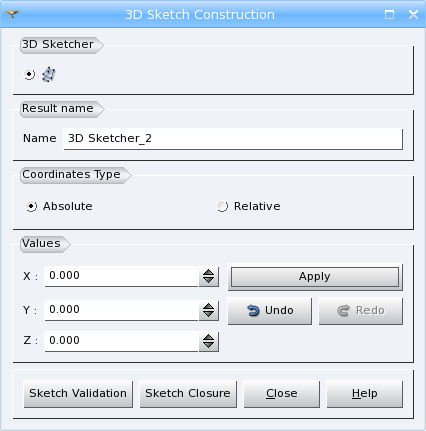
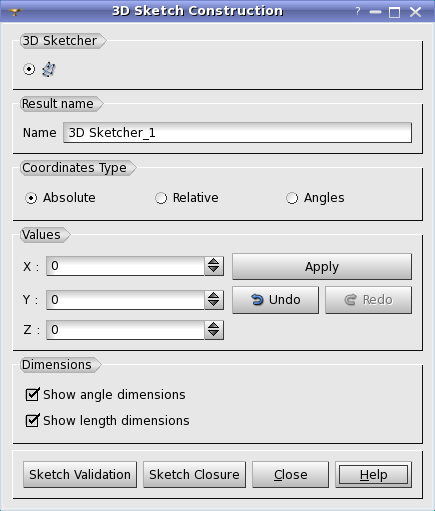
Mantis issue 0021392: EDF 1631 GEOM: Dump study of sketcher 3D with relatives coordinates.

diff --git a/src/GEOMGUI/GEOM_msg_en.ts b/src/GEOMGUI/GEOM_msg_en.ts
@@ -1843,6 +1843,10 @@ Please, select face, shell or solid and try again</translation>
         <translation>Coordinates Type</translation>
     </message>
     <message>
+        <source>GEOM_CONTROLS</source>
+        <translation>Dimensions</translation>
+    </message>
+    <message>
         <source>GEOM_SOLID</source>
         <translation>Solid</translation>
     </message>

diff --git a/src/GEOM_SWIG/gsketcher.py b/src/GEOM_SWIG/gsketcher.py
@@ -1,0 +1,182 @@
+#  -*- coding: iso-8859-1 -*-
+# Copyright (C) 2007-2012  CEA/DEN, EDF R&D, OPEN CASCADE
+#
+# This library is free software; you can redistribute it and/or
+# modify it under the terms of the GNU Lesser General Public
+# License as published by the Free Software Foundation; either
+# version 2.1 of the License.
+#
+# This library is distributed in the hope that it will be useful,
+# but WITHOUT ANY WARRANTY; without even the implied warranty of
+# MERCHANTABILITY or FITNESS FOR A PARTICULAR PURPOSE.  See the GNU
+# Lesser General Public License for more details.
+#
+# You should have received a copy of the GNU Lesser General Public
+# License along with this library; if not, write to the Free Software
+# Foundation, Inc., 59 Temple Place, Suite 330, Boston, MA  02111-1307 USA
+#
+# See http://www.salome-platform.org/ or email : webmaster.salome@opencascade.com
+#
+#  File   : gsketcher.py
+#  Author : Julia DOROVSKIKH, Open CASCADE S.A.S.
+#  Module : GEOM_SWIG
+
+"""
+    \namespace geompy
+    \brief 3D Sketcher interface
+"""
+
+# This method is used by 3D Sketcher functionality
+def printVar (var):
+    if isinstance(var, str):
+        return "\'%s\'"%var
+    else:
+        return "%.7f"%var
+
+## An interface to build a 3D Sketcher step-by-step.
+#  Use geompy.Sketcher3D() method to obtain an instance of this class.
+#
+#  @ref tui_3dsketcher_page "Example"
+class Sketcher3D:
+    """
+    3D sketcher interface.
+
+    Example of usage:
+        sk = geompy.Sketcher3D()
+        sk.addPointsAbsolute(0,0,0, 70,0,0)
+        sk.addPointsRelative(0, 0, 130)
+        sk.addPointAnglesLength("OXY", 50, 0, 100)
+        sk.addPointAnglesLength("OXZ", 30, 80, 130)
+        sk.close()
+        a3D_Sketcher_1 = sk.wire()
+    """
+
+    def __init__(self, geompyD):
+        self.geompyD = geompyD
+        self.myCommand = "3DSketcher"
+        pass
+
+    ## Add one or more points, sequentially connected with straight segments.
+    #  Coordinates are considered as absolute.
+    #  If the first point of sketcher is not yet defined, the first point
+    #  from the listCoords will become the first sketcher point.
+    #  @param X1, Y1, Z1, X2, Y2, Z2, ... Coordinates of points
+    def addPointsAbsolute (self, *listCoords):
+        """
+        Add one or more points, sequentially connected with straight segments.
+        Coordinates are considered as absolute.
+        If the first point of sketcher is not yet defined, the first point
+        from the listCoords will become the first sketcher point.
+
+        Parameters:
+            X1, Y1, Z1, X2, Y2, Z2, ... Coordinates of points
+
+        Example of usage:
+            sk = geompy.Sketcher3D()
+            sk.addPointsAbsolute(0,0,0, 70,0,0)
+            a3D_Sketcher_1 = sk.wire()
+        """
+        ii = 1
+        for cc in listCoords:
+            if ii == 1:
+                self.myCommand = self.myCommand + ":TT"
+            self.myCommand = self.myCommand + " %s"%printVar(cc)
+            if ii == 3:
+                ii = 1
+            else:
+                ii = ii + 1
+        pass
+
+    ## Add one or more points, sequentially connected with straight segments.
+    #  Coordinates are considered relative to the previous point.
+    #  If the first point of sketcher is not yet defined, the
+    #  origin (0, 0, 0) will become the first sketcher point.
+    #  @param X1, Y1, Z1, X2, Y2, Z2, ... Coordinates of points
+    def addPointsRelative (self, *listCoords):
+        """
+        Add one or more points, sequentially connected with straight segments.
+        Coordinates are considered relative to the previous point.
+        If the first point of sketcher is not yet defined, the
+        origin (0, 0, 0) will become the first sketcher point.
+
+        Parameters:
+            X1, Y1, Z1, X2, Y2, Z2, ... Relative coordinates of points
+
+        Example of usage:
+            sk = geompy.Sketcher3D()
+            sk.addPointsRelative(0,0,130, 70,0,-130)
+            a3D_Sketcher_1 = sk.wire()
+        """
+        ii = 1
+        for cc in listCoords:
+            if ii == 1:
+                self.myCommand = self.myCommand + ":T"
+            self.myCommand = self.myCommand + " %s"%printVar(cc)
+            if ii == 3:
+                ii = 1
+            else:
+                ii = ii + 1
+        pass
+
+    ## Add one straight segment, defined by two angles and length.
+    #  If the first point of sketcher is not yet defined, the
+    #  origin (0, 0, 0) will become the first sketcher point.
+    #  @param axes can be: "OXY", "OYZ" or "OXZ"
+    #  @param angle1 angle in a plane, defined by the \a axes
+    #  @param angle2 angle from the plane, defined by the \a axes
+    #  @param length length of the segment
+    def addPointAnglesLength (self, axes, angle1, angle2, length):
+        """
+        Add one straight segment, defined by two angles and length.
+        If the first point of sketcher is not yet defined, the
+        origin (0, 0, 0) will become the first sketcher point.
+
+        Parameters:
+            axes can be: "OXY", "OYZ" or "OXZ"
+            angle1 angle in a plane, defined by the \a axes
+            angle2 angle from the plane, defined by the \a axes
+            length length of the segment
+
+        Example of usage:
+            sk = geompy.Sketcher3D()
+            sk.addPointAnglesLength("OXY", 50, 0, 100)
+            a3D_Sketcher_1 = sk.wire()
+        """
+        self.myCommand = self.myCommand + ":%s %s %s %s" % (axes, printVar(angle1), printVar(angle2), printVar(length))
+        pass
+
+    ## Set to close the wire
+    def close (self):
+        """
+        Set to close the wire
+
+        Example of usage:
+            sk = geompy.Sketcher3D()
+            sk.addPointsRelative(0,0,130, 70,0,-130)
+            sk.close()
+            a3D_Sketcher_1 = sk.wire()
+        """
+        self.myCommand = self.myCommand + ":WW"
+        pass
+
+    ## Obtain the sketcher result.
+    #  @return New GEOM_Object, containing the created wire
+    def wire (self):
+        """
+        Obtain the sketcher result.
+
+        Returns:
+            New GEOM_Object, containing the created wire.
+
+        Example of usage:
+            sk = geompy.Sketcher3D()
+            sk.addPointsRelative(0,0,130, 70,0,-130)
+            a3D_Sketcher_1 = sk.wire()
+        """
+        from geompyDC import ParseSketcherCommand, RaiseIfFailed
+        Command,Parameters = ParseSketcherCommand(self.myCommand)
+        wire = self.geompyD.CurvesOp.Make3DSketcherCommand(Command)
+        self.myCommand = "3DSketcher"
+        RaiseIfFailed("Sketcher3D", self.geompyD.CurvesOp)
+        wire.SetParameters(Parameters)
+        return wire

diff --git a/src/GEOM_SWIG/geompyDC.py b/src/GEOM_SWIG/geompyDC.py
@@ -88,6 +88,8 @@ import GEOM
 import math
 import os
 
+from gsketcher import Sketcher3D
+
 ## Enumeration ShapeType as a dictionary. \n
 ## Topological types of shapes (like Open Cascade types). See GEOM::shape_type for details.
 #  @ingroup l1_geompy_auxiliary
@@ -1739,7 +1741,7 @@ class geompyDC(GEOM._objref_GEOM_Gen):
         #                                                      passing from it.
         #  @return New GEOM.GEOM_Object, containing the created wire.
         #
-        #  @ref tui_sketcher_page "Example"
+        #  @ref tui_3dsketcher_page "Example"
         def Make3DSketcher(self, theCoordinates):
             """
             Create a sketcher wire, following the numerical description,
@@ -1759,16 +1761,21 @@ class geompyDC(GEOM._objref_GEOM_Gen):
             return anObj
 
         ## Obtain a 3D sketcher interface
+        #  @return An instance of @ref gsketcher.Sketcher3D "Sketcher3D" interface
+        #
+        #  @ref tui_3dsketcher_page "Example"
         def Sketcher3D (self):
             """
+            Obtain a 3D sketcher interface.
+
             Example of usage:
-            sk = geompy.Sketcher3D()
-            sk.addPointsAbsolute(0, 0, 0)
-            sk.addPointsAbsolute(70, 0, 0)
-            sk.addPointsRelative(0, 0, 130)
-            sk.addPointAnglesLength("OXY", 50, 0, 100)
-            sk.addPointAnglesLength("OXZ", 30, 80, 130)
-            a3D_Sketcher_1 = sk.makeWire()
+                sk = geompy.Sketcher3D()
+                sk.addPointsAbsolute(0,0,0, 70,0,0)
+                sk.addPointsRelative(0, 0, 130)
+                sk.addPointAnglesLength("OXY", 50, 0, 100)
+                sk.addPointAnglesLength("OXZ", 30, 80, 130)
+                sk.close()
+                a3D_Sketcher_1 = sk.wire()
             """
             sk = Sketcher3D (self)
             return sk
@@ -8850,62 +8857,6 @@ class geompyDC(GEOM._objref_GEOM_Gen):
             ID = self.InsertOp.AddTexture(Width, Height, Texture)
             RaiseIfFailed("AddTexture", self.InsertOp)
             return ID
-
-## 3D Sketcher functionality
-## Use geompy.Sketcher3D() to obtain an instance of this class
-def printVar (var):
-    if isinstance(var, str):
-        return "\'%s\'"%var
-    else:
-        return "%.7f"%var
-
-class Sketcher3D:
-  def __init__(self, geompyD):
-    self.geompyD = geompyD
-    self.myCommand = "3DSketcher"
-    pass
-
-  def addPointsAbsolute (self, *listCoords):
-    ii = 1
-    for cc in listCoords:
-      if ii == 1:
-        self.myCommand = self.myCommand + ":TT"
-      self.myCommand = self.myCommand + " %s"%printVar(cc)
-      if ii == 3:
-        ii = 1
-      else:
-        ii = ii + 1
-    pass
-
-  def addPointsRelative (self, *listCoords):
-    ii = 1
-    for cc in listCoords:
-      if ii == 1:
-        self.myCommand = self.myCommand + ":T"
-      self.myCommand = self.myCommand + " %s"%printVar(cc)
-      if ii == 3:
-        ii = 1
-      else:
-        ii = ii + 1
-    pass
-
-  ## axes can be: "OXY", "OYZ" or "OXZ"
-  def addPointAnglesLength (self, axes, angle1, angle2, length):
-    self.myCommand = self.myCommand + ":%s %s %s %s" % (axes, printVar(angle1), printVar(angle2), printVar(length))
-    pass
-
-  def close (self):
-    self.myCommand = self.myCommand + ":WW"
-    pass
-
-  ## Obtain the sketcher result
-  def wire (self):
-    Command,Parameters = ParseSketcherCommand(self.myCommand)
-    wire = self.geompyD.CurvesOp.Make3DSketcherCommand(Command)
-    self.myCommand = "3DSketcher"
-    RaiseIfFailed("Sketcher3D", self.geompyD.CurvesOp)
-    wire.SetParameters(Parameters)
-    return wire
 
 import omniORB
 #Register the new proxy for GEOM_Gen

diff --git a/src/GEOM_SWIG/GEOM_TestAll.py b/src/GEOM_SWIG/GEOM_TestAll.py
@@ -105,8 +105,18 @@ def TestAll (geompy, math):
   Interpol = geompy.MakeInterpol([px, py, p200, pxyz], True) #(List of GEOM_Object,Boolean)->GEOM_Object
   Sketcher = geompy.MakeSketcher("Sketcher:F -100 -100:TT 250 -100:R 0:C 100 150:R 0:L 300:WW",
                                  [100,0,0, 1,1,1, -1,1,0]) #(String, List of Doubles)->GEOM_Object
-  Sketcher3d = geompy.Make3DSketcher([0,0,0, 50,50,50, 0,50,50, 10,0,0])
-  
+
+  #Create 3D wires with 3D Sketcher
+  sk = geompy.Sketcher3D()
+  sk.addPointsAbsolute(0,0,0, 70,0,0)
+  sk.addPointsRelative(0, 0, 130)
+  sk.addPointAnglesLength("OXY", 50, 0, 100)
+  sk.addPointAnglesLength("OXZ", 30, 80, 130)
+  sk.close()
+  Sketcher3d_1 = sk.wire()
+
+  Sketcher3d_2 = geompy.Make3DSketcher([0,0,0, 50,50,50, 0,50,50, 10,0,0])
+
   #Create local coordinate system from shape
   cs4 = geompy.MakeMarkerFromShape(Plane)
 
@@ -330,7 +340,9 @@ def TestAll (geompy, math):
   id_Bezier   = geompy.addToStudy(Bezier,   "Bezier")
   id_Interpol = geompy.addToStudy(Interpol, "Interpol")
   id_Sketcher = geompy.addToStudy(Sketcher, "Sketcher")
-  id_Sketcher3d = geompy.addToStudy(Sketcher3d, "Sketcher 3D")
+
+  id_Sketcher3d_1 = geompy.addToStudy(Sketcher3d_1, "Sketcher 3D by interface")
+  id_Sketcher3d_2 = geompy.addToStudy(Sketcher3d_2, "Sketcher 3D by list")
 
   id_p_on_arc  = geompy.addToStudy(p_on_arc,  "Vertex on Arc (0.25)")
   id_p_on_arc2 = geompy.addToStudy(p_on_arc2, "Vertex on Arc at(100, -10, 10)" )
